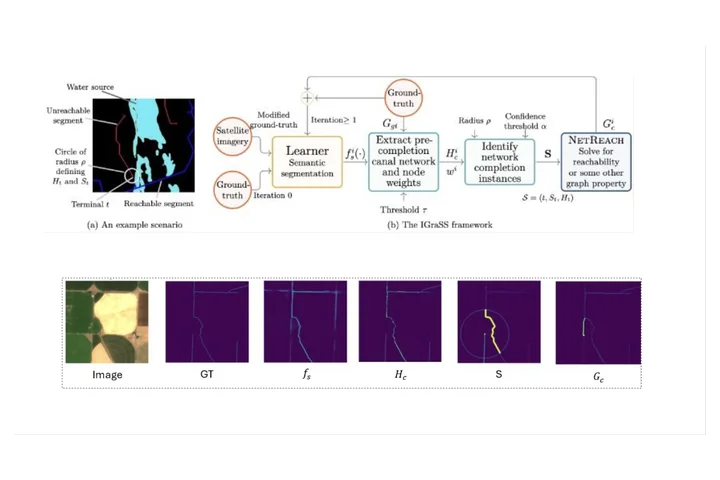
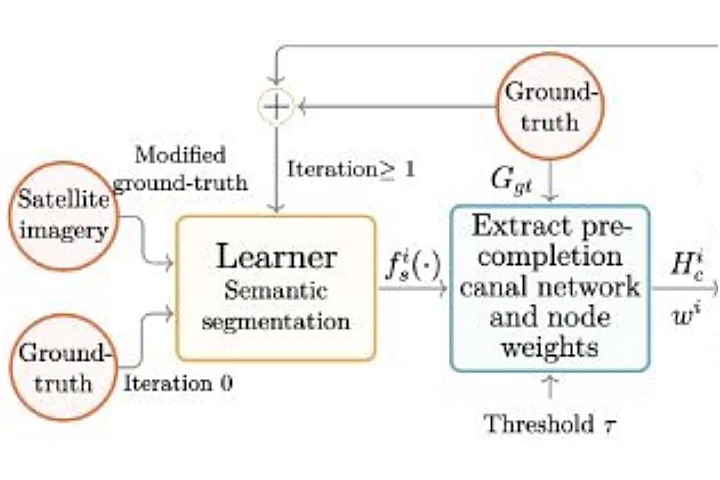
Regenerate publication thumbnails from paper figures; feature IrrMap and IrrNet
- Every thumbnail is now a figure from its paper, on white, 720x480: no black
  backgrounds, no draft frames, no panel borders (IRRISIGHT, FRCNN), whole
  figures where cropping cut content (CAFOSat, KIIM, IGraSS, HRNet)
- ICCIT gets a real figure (labelled admission form, Fig. 3)
- Icon tiles for papers without a usable figure (WRR droplet, ARFA "Coming soon")
- Thumbnail URLs carry a per-build ?v= so browsers drop cached old images
- IrrMap (KDD 2025) and IrrNet (V4A @ CVPR 2024) added to Featured publications
- ORNL bullets link their outcomes: accepted at WACV 2027, finalist at OASIS 2026

Claude-Session: https://claude.ai/code/session_019S2GUccTcFBxLCErPLZRJE

diff --git a/_includes/pub.html b/_includes/pub.html
@@ -14,11 +14,15 @@ Renders one publication entry. Usage: {% include pub.html pub=entry %}
 <article class="pub" id="{{ pub.key }}" data-tags="{{ pub.tags | join: ' ' }}" data-year="{{ pub.year }}">
   <div class="pub__thumb">
     {%- if pub.thumb == "none" -%}
-      <span class="pub__tile{% if pub.tile %} pub__tile--soon{% endif %}" aria-hidden="true">{% if pub.tile %}{{ pub.tile }}{% else %}{{ pub.venue_short | split: " " | first }}{% endif %}</span>
+      <span class="pub__tile{% if pub.tile_style %} pub__tile--{{ pub.tile_style }}{% endif %}" aria-hidden="true">
+        {%- if pub.tile_icon -%}<span class="pub__tile-icon">{% include icons/{{ pub.tile_icon }}.svg %}</span>{%- endif -%}
+        <span class="pub__tile-label">{% if pub.tile %}{{ pub.tile }}{% else %}{{ pub.venue_short }}{% endif %}</span>
+      </span>
     {%- else -%}
       {%- if pub.thumb -%}{%- assign thumb = pub.thumb -%}{%- else -%}{%- assign thumb = "/images/pubs/" | append: pub.key | append: ".webp" -%}{%- endif -%}
       {%- if primary != "" -%}<a href="{{ primary }}" tabindex="-1" aria-hidden="true"{% if primary contains "http" %} target="_blank" rel="noopener"{% endif %}>{%- endif -%}
-      <img src="{{ thumb | relative_url }}" alt="" loading="lazy" decoding="async" width="720" height="480">
+      {%- comment -%} ?v= changes on every build, so browsers fetch regenerated thumbnails instead of cached ones {%- endcomment -%}
+      <img src="{{ thumb | relative_url }}?v={{ site.time | date: '%s' }}" alt="" loading="lazy" decoding="async" width="720" height="480">
       {%- if primary != "" -%}</a>{%- endif -%}
     {%- endif -%}
   </div>

diff --git a/assets/css/site.css b/assets/css/site.css
@@ -240,8 +240,12 @@ sup { line-height: 0; font-size: 0.7em; }
 .pub__thumb { aspect-ratio: 3 / 2; overflow: hidden; border-radius: 3px; box-shadow: 0 2px 5px 0 rgba(0, 0, 0, 0.16), 0 2px 10px 0 rgba(0, 0, 0, 0.12); background: #fff; }
 .pub__thumb a { display: block; }
 .pub__thumb img { display: block; width: 100%; height: auto; }
-.pub__tile { display: grid; place-items: center; height: 100%; font-weight: 700; font-size: 1.4rem; color: var(--theme); background: #f6f6f6; }
-.pub__tile--soon { font-size: 0.95rem; font-weight: 500; color: var(--text-light); font-style: italic; }
+.pub__tile { display: flex; flex-direction: column; align-items: center; justify-content: center; gap: 7px; height: 100%; padding: 8px 10px; text-align: center; color: var(--theme); background: linear-gradient(135deg, rgba(38, 152, 186, 0.13), rgba(38, 152, 186, 0.04)); }
+.pub__tile-icon { font-size: 1.75rem; line-height: 1; display: flex; }
+.pub__tile-label { font-size: 0.74rem; font-weight: 500; line-height: 1.25; color: #2f7389; }
+.pub__tile--soon { color: #a3a3a3; background: #f5f5f5; }
+.pub__tile--soon .pub__tile-icon { font-size: 1.45rem; }
+.pub__tile--soon .pub__tile-label { color: var(--text-light); font-style: italic; font-size: 0.8rem; }
 .pub__venue-line { margin: 0 0 0.3rem; }
 .pub__venue { display: inline-block; font-size: 0.78rem; font-weight: 500; color: #fff; background: var(--theme); border-radius: 3px; padding: 1px 7px; margin: 0; }
 .pub__status { color: var(--text-light); font-weight: 400; font-size: 0.85rem; margin-left: 6px; }

diff --git a/README.md b/README.md
@@ -9,7 +9,7 @@ Almost everything you will want to change lives in `_data/`:
 | File | What it holds |
 | --- | --- |
 | `_data/news.yml` | News items, newest first. The home page shows the first six and hides the rest behind "Show all". |
-| `_data/publications.yml` | Every paper: title, venue, authors, links, tags. Entries tagged `selected` also appear on the home page. Put a `720x480` thumbnail at `images/pubs/<key>.webp`, or set `thumb: none` for a text tile. |
+| `_data/publications.yml` | Every paper: title, venue, authors, links, tags. Entries tagged `selected` also appear on the home page. Put a `720x480` thumbnail at `images/pubs/<key>.webp`, or set `thumb: none` for an icon tile (`tile`, `tile_icon`, `tile_style: soon`; see the file header). |
 | `_data/experience.yml` | The experience timeline (`affiliations`) and `education` block on the home page. |
 | `_data/activities.yml` | Awards (rendered as cards: `title`, `org`, `detail`, `kind`), media highlights, travel grants, talks and competitions for the Awards & Talks page. |
 | `_data/services.yml` | Teaching, mentoring (mentees), reviewing, judging, leadership and volunteering for the Services page. |
